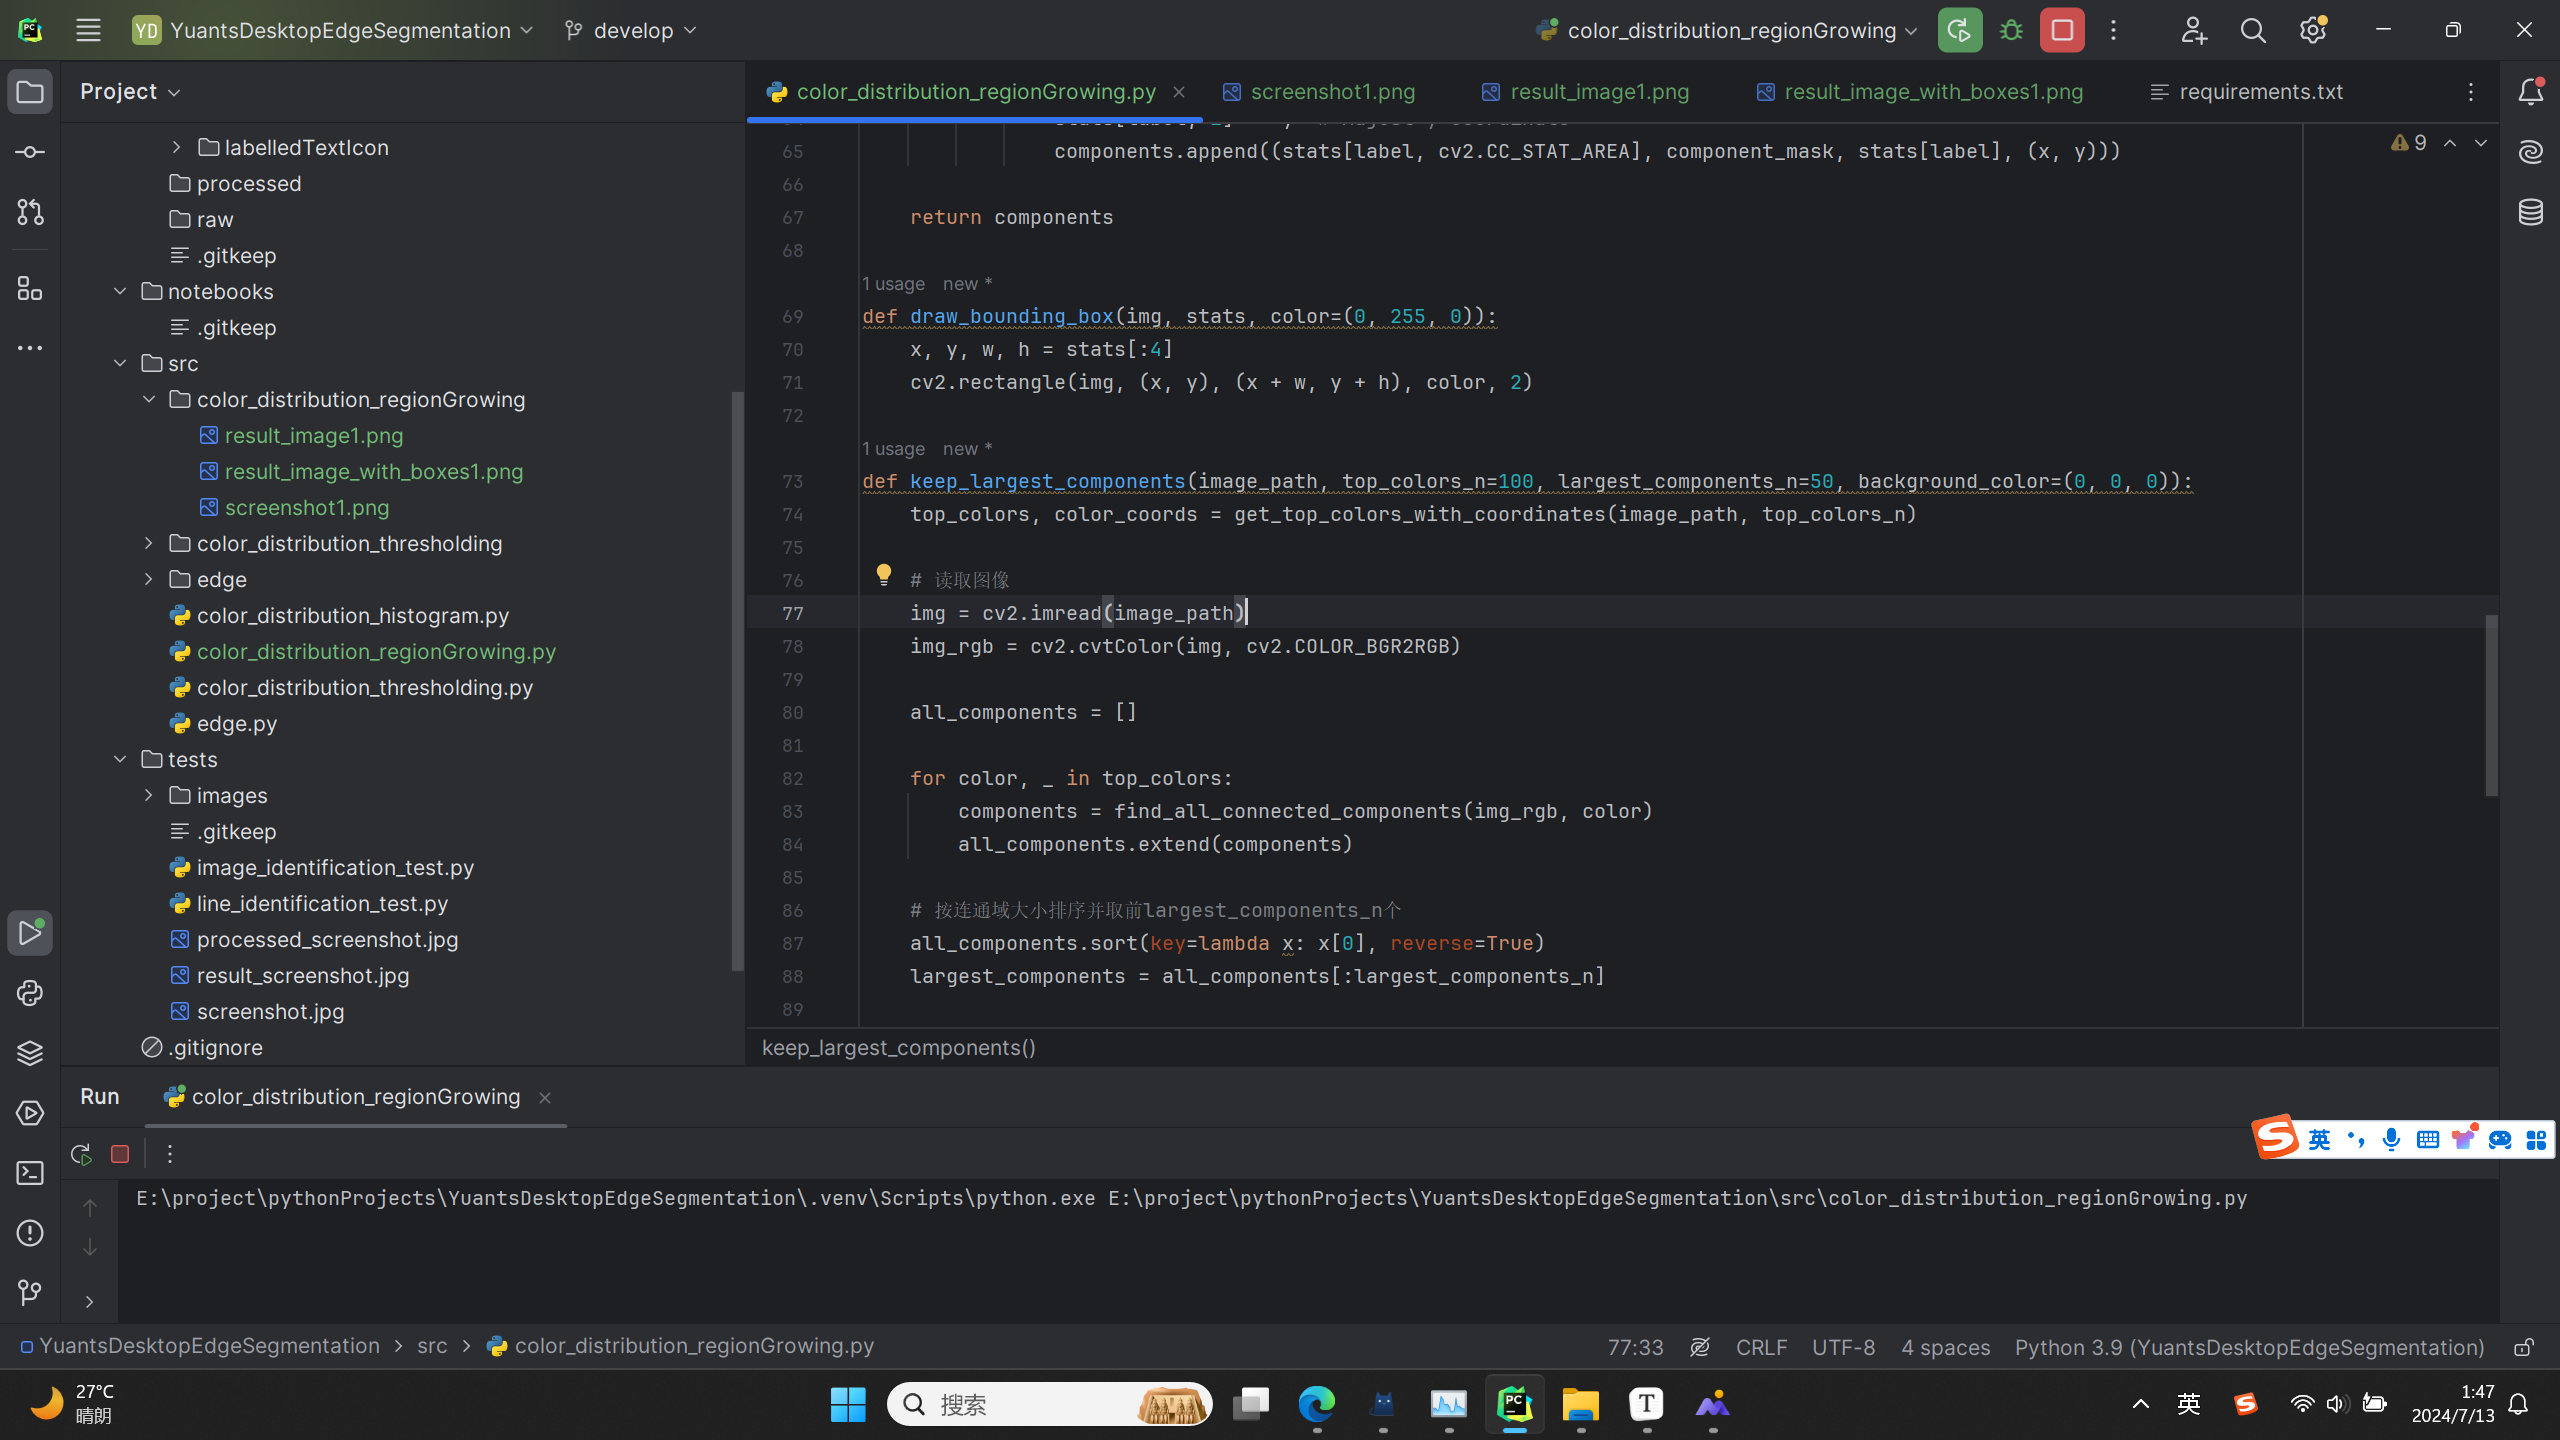
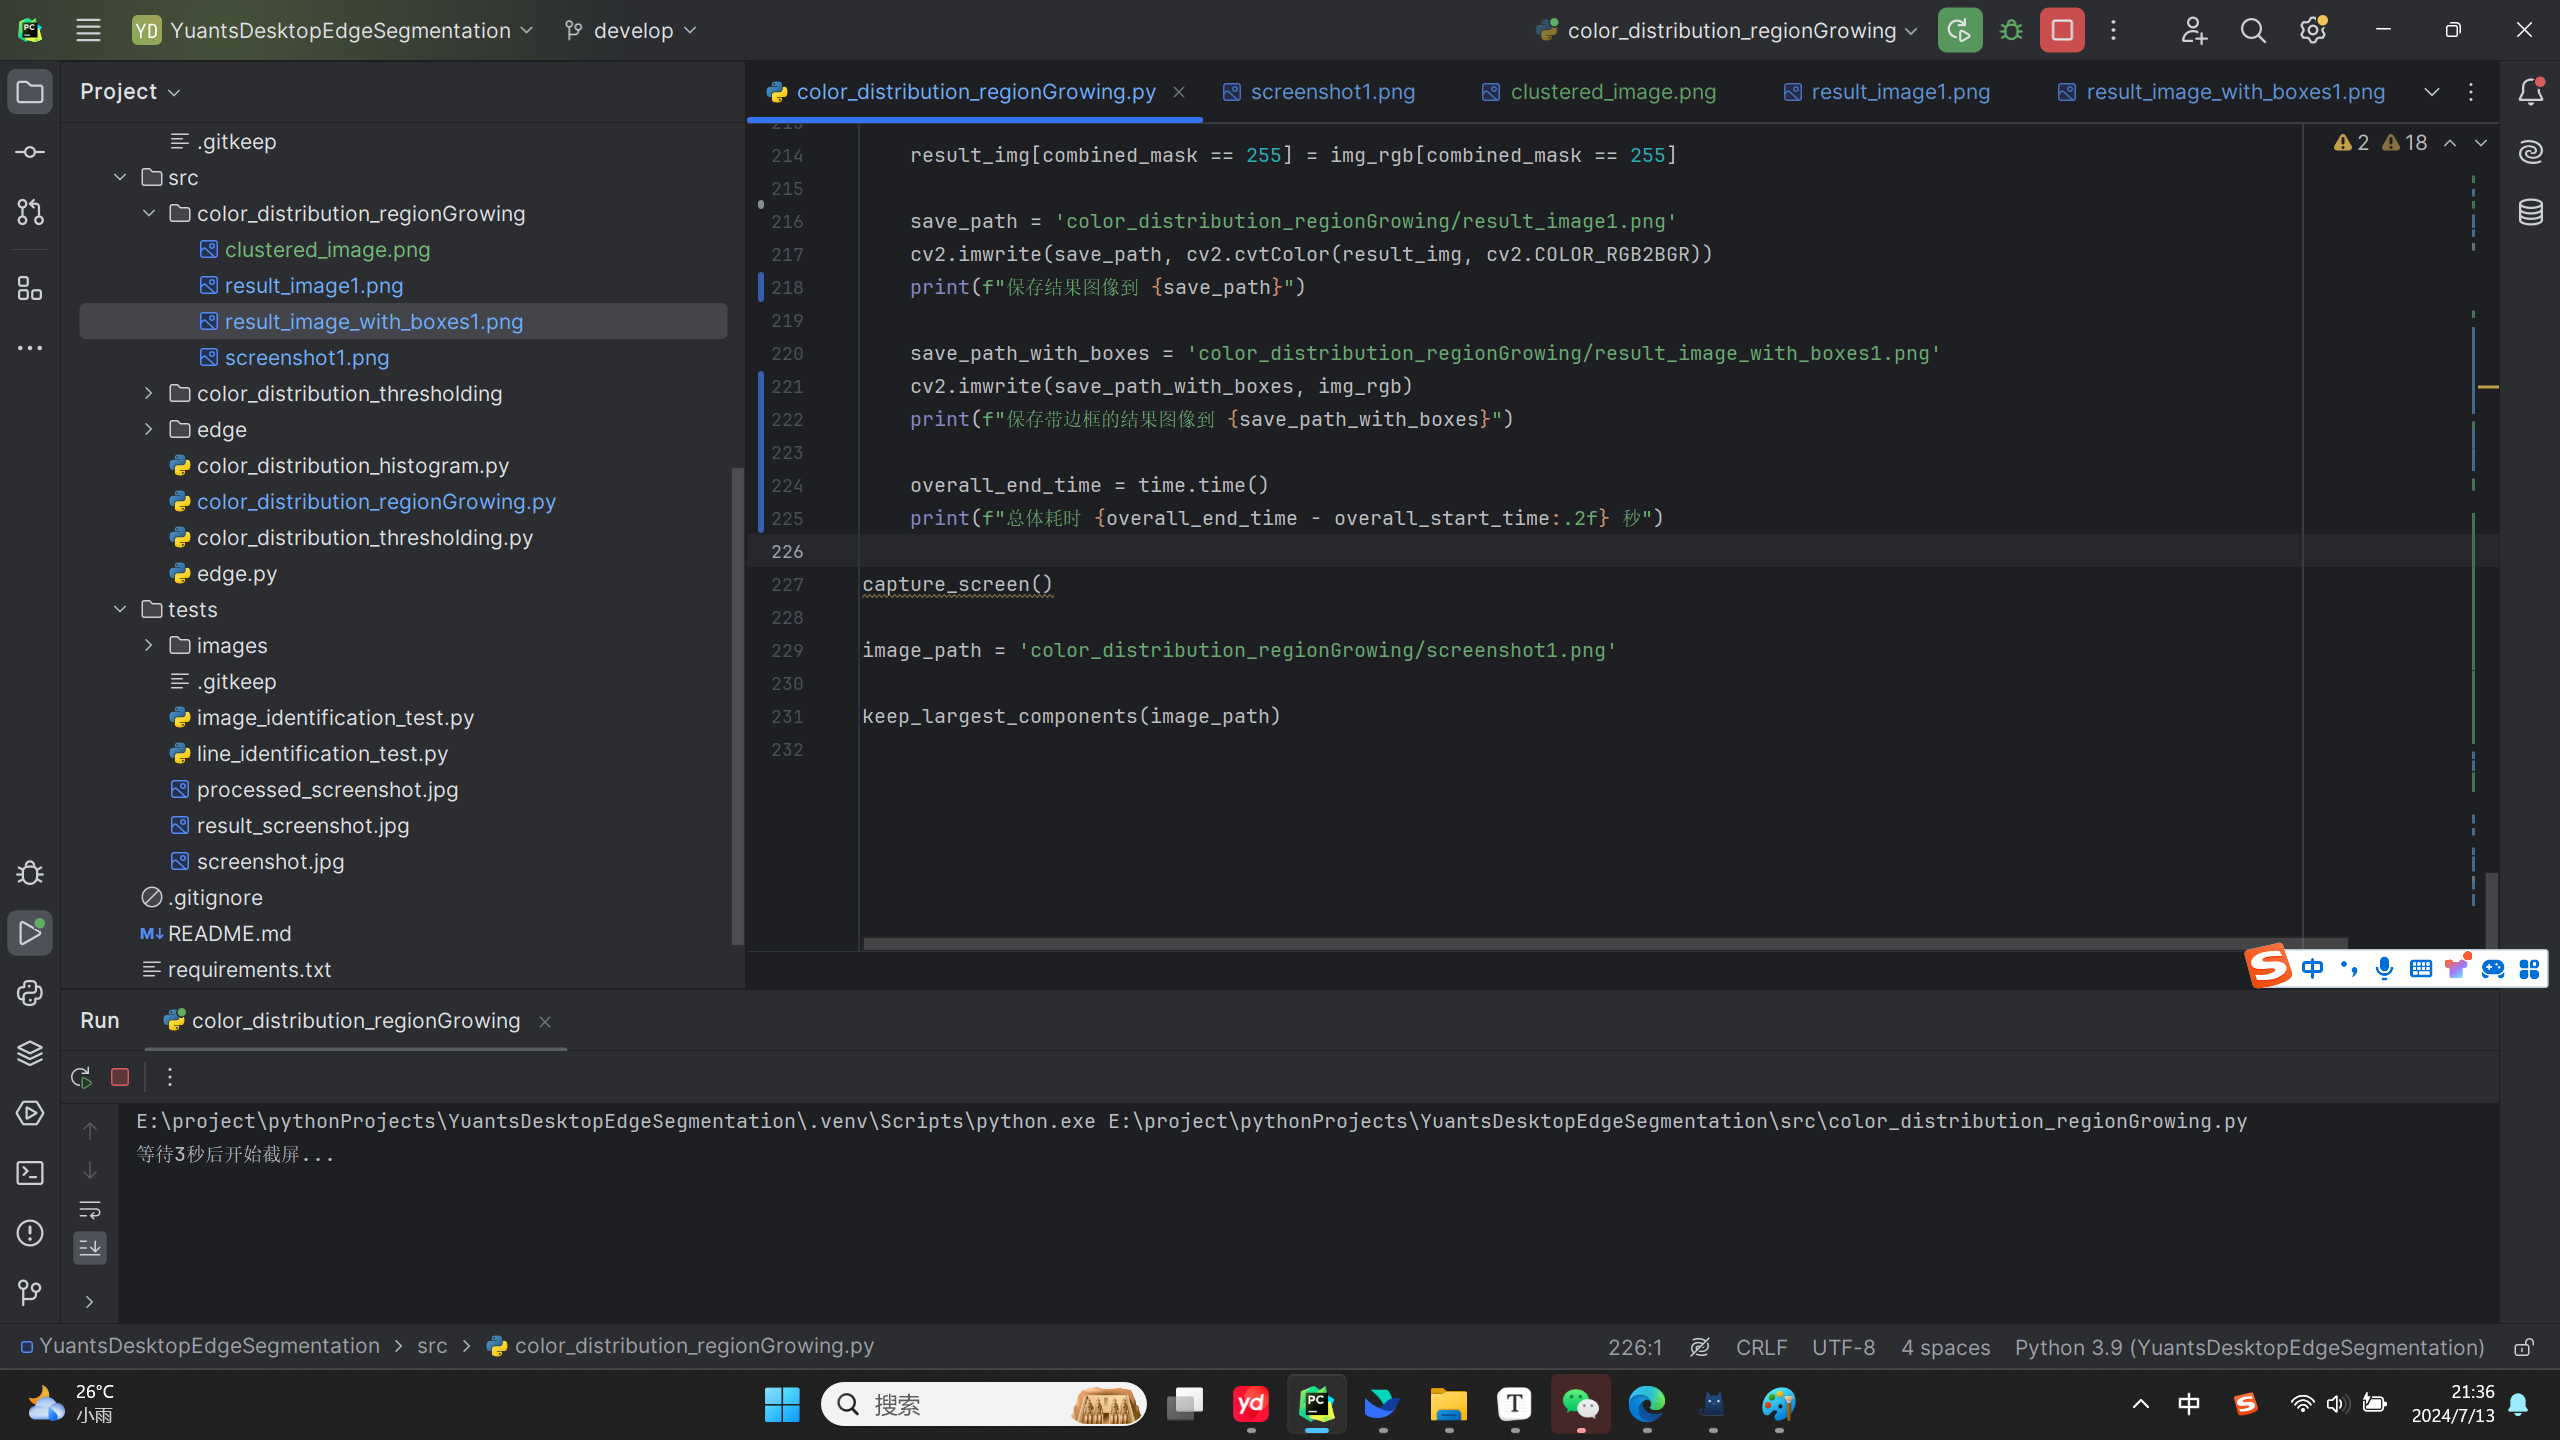
feature: Basically realized by color segmentation

diff --git a/src/color_distribution_regionGrowing.py b/src/color_distribution_regionGrowing.py
@@ -3,26 +3,25 @@ import cv2
 import numpy as np
 from collections import Counter, defaultdict
 from PIL import ImageGrab
+from sklearn.cluster import KMeans
 
 def capture_screen():
-    # Add a delay to switch windows
-    time.sleep(3)  # Delay for 3 seconds
-
-    # Capture the entire screen
+    print("等待3秒后开始截屏...")
+    time.sleep(3)  # 延迟3秒，用于切换窗口
     screenshot = ImageGrab.grab()
     screenshot.save("color_distribution_regionGrowing/screenshot1.png")
+    print("截屏完成，保存为 screenshot1.png")
     return screenshot
 
-def get_top_colors_with_coordinates(image_path, top_n=100):
-    # 读取图像
+def get_top_colors_with_coordinates(image_path, top_n=10):
+    start_time = time.time()
+    print(f"读取图像 {image_path} ...")
     img = cv2.imread(image_path)
     if img is None:
-        raise ValueError("Image not found or path is incorrect")
+        raise ValueError("图像未找到或路径不正确")
 
     # 将图像从BGR转换为RGB
     img_rgb = cv2.cvtColor(img, cv2.COLOR_BGR2RGB)
-
-    # 获取图像的形状
     rows, cols, _ = img.shape
 
     # 将图像展平为二维数组
@@ -44,71 +43,186 @@ def get_top_colors_with_coordinates(image_path, top_n=100):
             if pixel_color in dict(top_colors):
                 color_coords[pixel_color].append((r, c))
 
+    end_time = time.time()
+    print(f"找到了前 {top_n} 种颜色，耗时 {end_time - start_time:.2f} 秒")
     return top_colors, color_coords
 
-def find_all_connected_components(img, color, block_size=(512, 512)):
+def apply_color_clustering(image_path, n_clusters=3):
+    start_time = time.time()
+    print(f"对图像 {image_path} 进行颜色聚类...")
+
+    # 读取图像
+    img = cv2.imread(image_path)
+    if img is None:
+        raise ValueError("图像未找到或路径不正确")
+
+    # 将图像从BGR转换为RGB
+    img_rgb = cv2.cvtColor(img, cv2.COLOR_BGR2RGB)
+    rows, cols, _ = img.shape
+
+    # 将图像展平为二维数组
+    flat_img = img_rgb.reshape(-1, 3)
+
+    # 应用K-means聚类
+    kmeans = KMeans(n_clusters=n_clusters, random_state=42).fit(flat_img)
+    clustered_img = kmeans.cluster_centers_[kmeans.labels_].reshape(rows, cols, 3).astype(np.uint8)
+
+    end_time = time.time()
+    print(f"颜色聚类完成，耗时 {end_time - start_time:.2f} 秒")
+
+    return clustered_img
+
+def find_all_connected_components(img, color):
+    start_time = time.time()
     height, width = img.shape[:2]
     components = []
+    processed_pixels = set()
 
-    for y in range(0, height, block_size[1]):
-        for x in range(0, width, block_size[0]):
-            block = img[y:y + block_size[1], x:x + block_size[0]]
-            mask = np.zeros(block.shape[:2], np.uint8)
-            mask[np.all(block == color, axis=-1)] = 1
+    print(f"查找颜色 {color} 的连通域...")
+    mask = np.zeros(img.shape[:2], np.uint8)
+    mask[np.all(img == color, axis=-1)] = 1
 
-            num_labels, labels, stats, _ = cv2.connectedComponentsWithStats(mask, connectivity=8)
+    num_labels, labels, stats, centroids = cv2.connectedComponentsWithStats(mask, connectivity=8)
 
-            for label in range(1, num_labels):
-                component_mask = (labels == label).astype(np.uint8) * 255
-                stats[label, 0] += x  # Adjust x coordinate
-                stats[label, 1] += y  # Adjust y coordinate
-                components.append((stats[label, cv2.CC_STAT_AREA], component_mask, stats[label], (x, y)))
+    for label in range(1, num_labels):
+        component_mask = (labels == label).astype(np.uint8) * 255
+        pixels = np.column_stack(np.where(labels == label))
 
+        # 检查像素是否已经处理过
+        pixel_tuple = tuple(map(tuple, pixels))
+        if any(p in processed_pixels for p in pixel_tuple):
+            continue
+
+        components.append((stats[label, cv2.CC_STAT_AREA], component_mask, stats[label], pixels))
+        processed_pixels.update(pixel_tuple)
+
+    end_time = time.time()
+    print(f"找到了 {len(components)} 个连通域，耗时 {end_time - start_time:.2f} 秒")
     return components
 
 def draw_bounding_box(img, stats, color=(0, 255, 0)):
     x, y, w, h = stats[:4]
     cv2.rectangle(img, (x, y), (x + w, y + h), color, 2)
+    print(f"绘制边框：x={x}, y={y}, w={w}, h={h}")
 
-def keep_largest_components(image_path, top_colors_n=100, largest_components_n=50, background_color=(0, 0, 0)):
-    top_colors, color_coords = get_top_colors_with_coordinates(image_path, top_colors_n)
+def are_adjacent(pixels1, pixels2):
+    adjacent_offsets = [(-1, -1), (-1, 0), (-1, 1), (0, -1), (0, 1), (1, -1), (1, 0), (1, 1)]
+    pixels1_set = set(map(tuple, pixels1))
+    pixels2_set = set(map(tuple, pixels2))
+    for (y1, x1) in pixels1_set:
+        for dy, dx in adjacent_offsets:
+            if (y1 + dy, x1 + dx) in pixels2_set:
+                return True
+    return False
 
-    # 读取图像
-    img = cv2.imread(image_path)
-    img_rgb = cv2.cvtColor(img, cv2.COLOR_BGR2RGB)
+def is_similar_color(color1, color2, tolerance=10):
+    return np.linalg.norm(np.array(color1) - np.array(color2)) <= tolerance
 
+def merge_components(components):
+    start_time = time.time()
+    print("开始合并相邻的连通域...")
+    merged_components = []
+    used = set()
+
+    while components:
+        component1 = components.pop(0)
+        if id(component1) in used:
+            continue
+        merged = [component1]
+        used.add(id(component1))
+        merge_count = 0
+
+        i = 0
+        while i < len(components):
+            component2 = components[i]
+            if id(component2) in used:
+                i += 1
+                continue
+            if is_similar_color(component1[2][4:7], component2[2][4:7]) and are_adjacent(component1[3], component2[3]):
+                merged.append(component2)
+                used.add(id(component2))
+                components.pop(i)
+                merge_count += 1
+            else:
+                i += 1
+
+        if len(merged) > 1:
+            merged_area = sum(comp[0] for comp in merged)
+            merged_mask = np.zeros_like(merged[0][1])
+            merged_pixels = []
+            for comp in merged:
+                print(f"正在合并的掩码大小: {merged_mask.shape}, {comp[1].shape}, 类型: {merged_mask.dtype}, {comp[1].dtype}")
+                if merged_mask.shape == comp[1].shape and merged_mask.dtype == comp[1].dtype:
+                    merged_mask = cv2.bitwise_or(merged_mask, comp[1])
+                else:
+                    print(f"掩码大小或类型不匹配: {merged_mask.shape}, {comp[1].shape}, {merged_mask.dtype}, {comp[1].dtype}")
+                    continue
+                merged_pixels.extend(comp[3])
+            merged_stats = merged[0][2].copy()
+            merged_stats[cv2.CC_STAT_AREA] = merged_area
+            x_coords, y_coords = zip(*merged_pixels)
+            merged_stats[cv2.CC_STAT_LEFT] = min(x_coords)
+            merged_stats[cv2.CC_STAT_TOP] = min(y_coords)
+            merged_stats[cv2.CC_STAT_WIDTH] = max(x_coords) - min(x_coords) + 1
+            merged_stats[cv2.CC_STAT_HEIGHT] = max(y_coords) - min(y_coords) + 1
+            merged_components.append((merged_area, merged_mask, merged_stats, np.array(merged_pixels)))
+            print(f"合并了 {merge_count} 个连通域，总面积为 {merged_area}")
+        else:
+            merged_components.append(component1)
+
+    end_time = time.time()
+    print(f"合并后剩余 {len(merged_components)} 个连通域，耗时 {end_time - start_time:.2f} 秒")
+    return merged_components
+
+def keep_largest_components(image_path, top_colors_n=5, largest_components_n=10, background_color=(0, 0, 0)):
+    overall_start_time = time.time()
+
+    # 对图像进行颜色聚类
+    clustered_img = apply_color_clustering(image_path, n_clusters=3)
+
+    # 将聚类后的图像保存以便检查
+    cv2.imwrite('color_distribution_regionGrowing/clustered_image.png', cv2.cvtColor(clustered_img, cv2.COLOR_RGB2BGR))
+    print("保存聚类后的图像到 clustered_image.png")
+
+    # 获取聚类后的图像中的前 N 种颜色及其坐标
+    top_colors, color_coords = get_top_colors_with_coordinates('color_distribution_regionGrowing/clustered_image.png', top_colors_n)
+    img_rgb = clustered_img
     all_components = []
 
     for color, _ in top_colors:
         components = find_all_connected_components(img_rgb, color)
         all_components.extend(components)
 
-    # 按连通域大小排序并取前largest_components_n个
-    all_components.sort(key=lambda x: x[0], reverse=True)
-    largest_components = all_components[:largest_components_n]
+    # 全图范围内合并连通域
+    merged_components = merge_components(all_components)
+    merged_components.sort(key=lambda x: x[0], reverse=True)
+    largest_components = merged_components[:largest_components_n]
 
-    # 创建一个掩码来保存所有最大的连通域
-    combined_mask = np.zeros(img.shape[:2], np.uint8)
+    print(f"保留最大的 {largest_components_n} 个连通域")
+    combined_mask = np.zeros(img_rgb.shape[:2], np.uint8)
     result_img = np.zeros_like(img_rgb)
     for i in range(3):
         result_img[:, :, i] = background_color[i]
 
-    for _, component_mask, stats, (x, y) in largest_components:
+    for _, component_mask, stats, _ in largest_components:
+        print(f"处理连通域，面积为 {stats[cv2.CC_STAT_AREA]}")
         temp_mask = np.zeros_like(combined_mask)
-        temp_mask[y:y + component_mask.shape[0], x:x + component_mask.shape[1]] = component_mask
+        temp_mask[np.where(component_mask == 255)] = 255
         combined_mask = cv2.bitwise_or(combined_mask, temp_mask)
-        draw_bounding_box(img, stats)
+        draw_bounding_box(img_rgb, stats)
 
     result_img[combined_mask == 255] = img_rgb[combined_mask == 255]
 
-    # 保存结果图像和带边框的图像
     save_path = 'color_distribution_regionGrowing/result_image1.png'
     cv2.imwrite(save_path, cv2.cvtColor(result_img, cv2.COLOR_RGB2BGR))
-    print(f'Saved result image with largest components to {save_path}')
+    print(f"保存结果图像到 {save_path}")
 
     save_path_with_boxes = 'color_distribution_regionGrowing/result_image_with_boxes1.png'
-    cv2.imwrite(save_path_with_boxes, img)
-    print(f'Saved result image with bounding boxes to {save_path_with_boxes}')
+    cv2.imwrite(save_path_with_boxes, img_rgb)
+    print(f"保存带边框的结果图像到 {save_path_with_boxes}")
+
+    overall_end_time = time.time()
+    print(f"总体耗时 {overall_end_time - overall_start_time:.2f} 秒")
 
 capture_screen()
 
